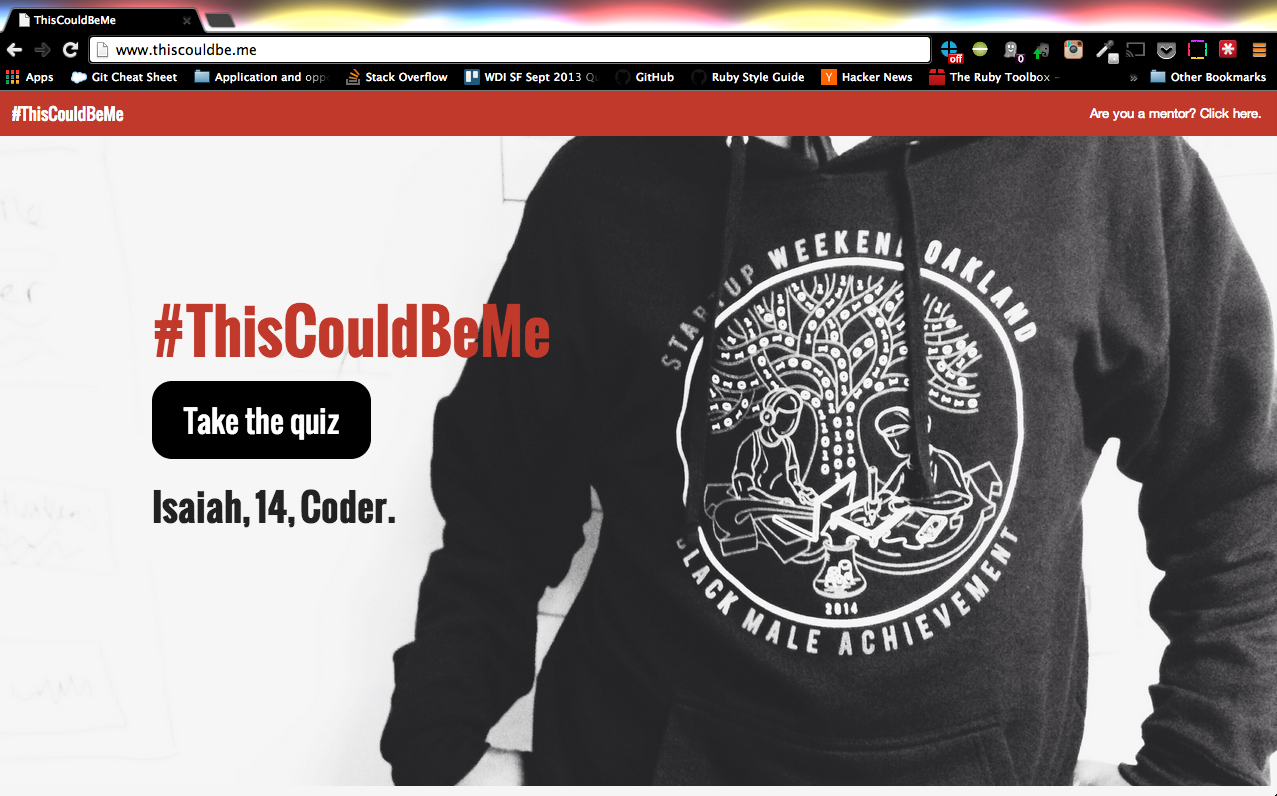
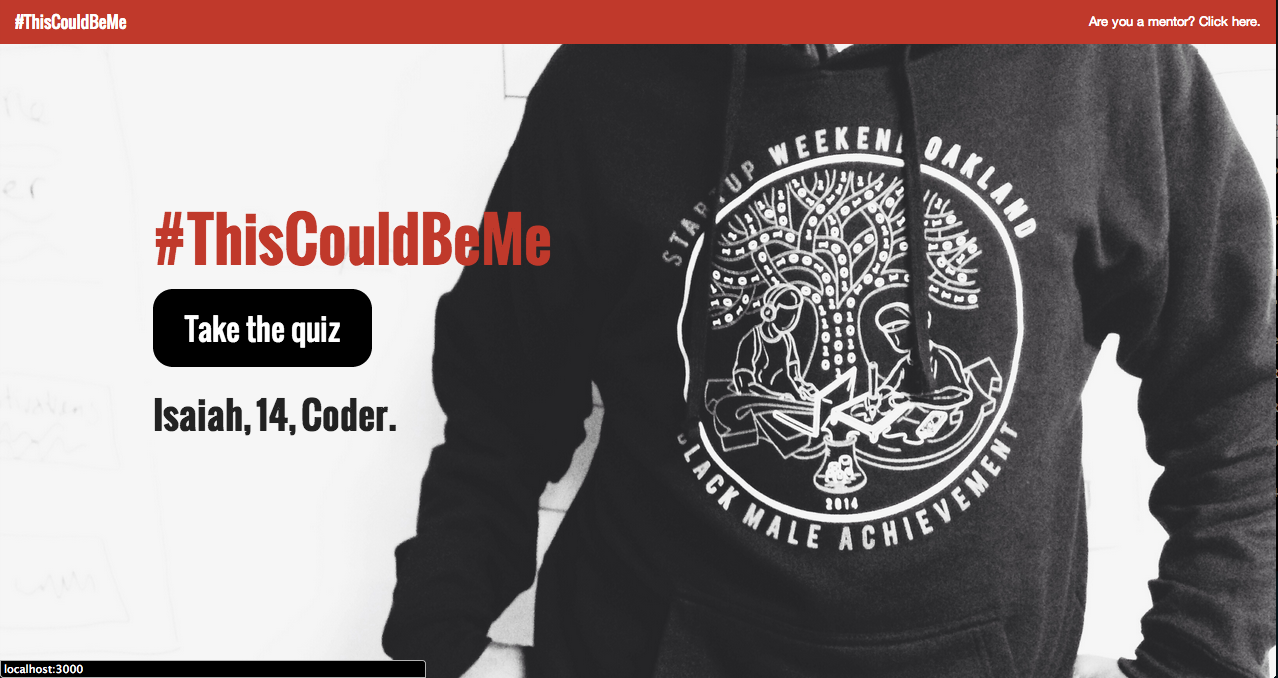
added new project

diff --git a/index.html b/index.html
@@ -101,7 +101,7 @@
                   <p class="text left"> Version 2 is up and running! A new way to tell stories using the Soundcloud API, Mapbox, and Google.</p>
                 </div>
                 <a class="link-image" href="https://github.com/laurenbenichou/soundframe_app"><span class="icon github"></span></a>
-                <a class="link-image" href="https://soundframe.herokuapp.com/"><span class="icon link"></span></a>
+                <a class="link-image" href="https://www.soundfra.me/"><span class="icon link"></span></a>
               </div>
             </div>
           </figure>
@@ -133,13 +133,13 @@
           </figure>
           <figure>
             <div class="wrap">
-              <div class="image" style="background:url(images/time-story.jpg) center no-repeat; background-size:cover;"></div>
+              <div class="image" style="background:url(images/thiscouldbeme.png) center no-repeat; background-size:cover;"></div>
               <div class="info-slider">
                 <div class="column_5">
-                  <h4 class="text bold left">Coming Soon: Time-Story</h4>
-                  <p class="text left"> An app populating Timeline.js with Storify stories. Enter a link and it's done!</p>
+                  <h4 class="text bold left">StartUp Weekend Oakland: ThisCouldBeMe</h4>
+                  <p class="text left"> A platform built to increase the exposure of low income youth to new carreers by telling the real stories of real role models.</p>
                 </div>
-                <a class="link-image" href="https://github.com/laurenbenichou/Timeline-Story"><span class="icon github"></span></a>
+                <a class="link-image" href="https://github.com/laurenbenichou/ThisCouldBeMe"><span class="icon github"></span></a>
                 <a class="link-image" href="#"><span class="icon link"></span></a>
               </div>
             </div>

diff --git a/css/swipe.css b/css/swipe.css
@@ -23,8 +23,8 @@
 }
 
 .wrap {
-  max-width: 640px;
-  height: 360px;
+  max-width: 750px;
+  height: 385px;
   display: block;
   margin: 20px auto 15px;
   position: relative;
@@ -41,12 +41,12 @@ figure{
 
 .info-slider{
   width:100%;
-  height: 75px;
+  height: 150px;
   background: #000;
   color: white;
   opacity: .40;
-  border-radius: 10px;
   margin-top: 10px;
+  padding-top: 20px;
   position: relative;
 }
 
@@ -65,7 +65,7 @@ figure{
 
 .slider-button{
   color:  white;
-  font-size: 40px;
+  font-size: 20px;
   cursor: pointer;
 }
 

diff --git a/css/sections.css b/css/sections.css
@@ -51,7 +51,6 @@ h2{
 }
 
 
-
 .img_about{
   height: 50px;
   width: auto;
